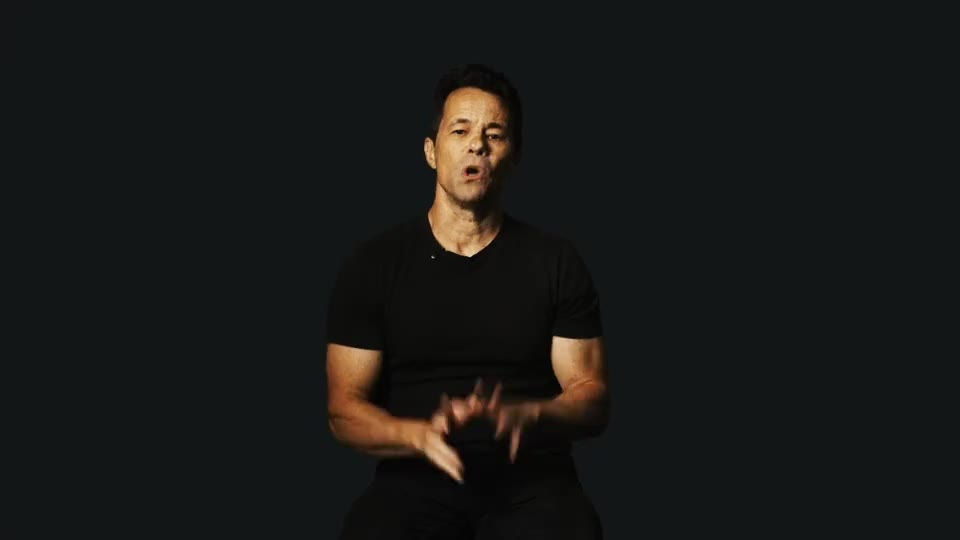
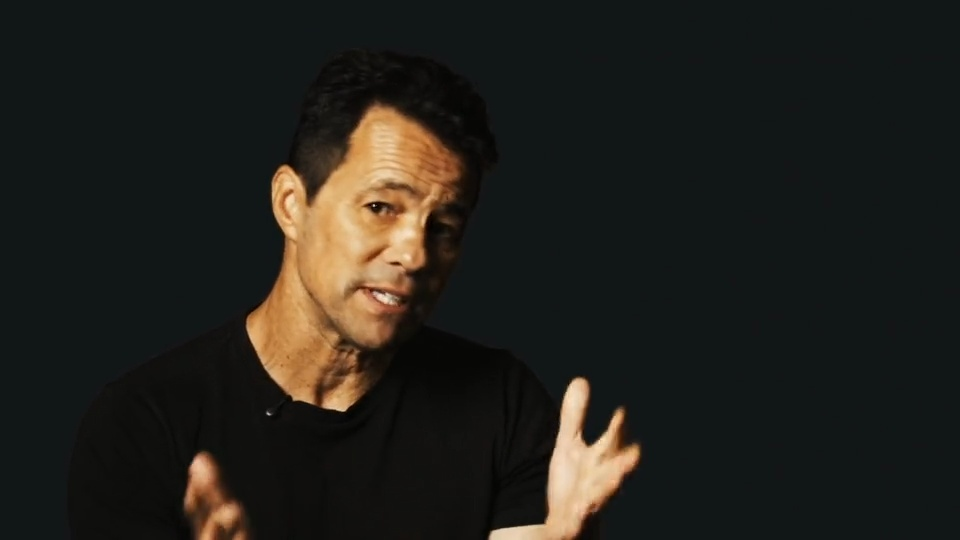
Refine About story disclosures and Media video stills

Changed region(s): [[0.25, 0.1481, 0.6875, 1.0], [0.1875, 0.8296, 0.2812, 1.0]]

diff --git a/studio/scripts/update-about-story.ts b/studio/scripts/update-about-story.ts
@@ -1,0 +1,62 @@
+import {writeFile} from 'node:fs/promises'
+import {tmpdir} from 'node:os'
+import {join} from 'node:path'
+import {isDeepStrictEqual} from 'node:util'
+import {getCliClient} from 'sanity/cli'
+import storyBody from '../../docs/about-story-20261118.json'
+
+// Dry run: sanity exec scripts/update-about-story.ts --with-user-token
+// Apply only this approved field: append -- --apply. Existing drafts are never published.
+const client = getCliClient({apiVersion: '2026-09-11'}).withConfig({useCdn: false})
+
+
+async function run() {
+  const documents = await client.fetch<Array<{
+    _id: string; _rev: string; storyBody?: unknown; [key: string]: unknown
+  }>>('*[_type == "about" && !(_id in path("versions.**"))]', {}, {perspective: 'raw'})
+  const published = documents.filter((document) => !document._id.startsWith('drafts.'))
+  if (published.length !== 1) throw new Error('Expected exactly one published About.')
+  const about = published[0]
+  const draft = documents.find((document) => document._id === `drafts.${about._id}`)
+  if (draft && !isDeepStrictEqual(draft.storyBody, about.storyBody) &&
+      !isDeepStrictEqual(draft.storyBody, storyBody)) {
+    throw new Error('About has independent story draft edits. No content was changed.')
+  }
+  const pending = [about, ...(draft ? [draft] : [])].filter(
+    (document) => !isDeepStrictEqual(document.storyBody, storyBody),
+  )
+  console.log(JSON.stringify({
+    blocks: storyBody.length,
+    pending: pending.map((document) => ({id: document._id, revision: document._rev})),
+    draftWillBePublished: false,
+  }))
+  if (!process.argv.includes('--apply') || !pending.length) return
+
+  const backup = join(tmpdir(), `troy-storyBody-${Date.now()}.json`)
+  await writeFile(backup, JSON.stringify(documents, null, 2), {mode: 0o600, flag: 'wx'})
+  console.log(`Private backup: ${backup}`)
+  let transaction = client.transaction()
+  for (const document of pending) {
+    transaction = transaction.patch(document._id, (patch) => patch
+      .ifRevisionId(document._rev).set({storyBody}))
+  }
+  await transaction.commit()
+  for (const document of pending) {
+    const saved = await client.getDocument(document._id)
+    if (!isDeepStrictEqual(saved?.storyBody, storyBody)) {
+      throw new Error(`Story verification failed: ${document._id}`)
+    }
+    for (const [field, value] of Object.entries(document)) {
+      if (['storyBody', '_rev', '_updatedAt'].includes(field)) continue
+      if (!isDeepStrictEqual(saved?.[field], value)) {
+        throw new Error(`Unexpected field change: ${document._id}.${field}`)
+      }
+    }
+  }
+  console.log('Verified story-only changes; other content and draft status preserved.')
+}
+
+run().catch((error: Error) => {
+  console.error(error.message)
+  process.exitCode = 1
+})

diff --git a/components/backstory.tsx b/components/backstory.tsx
@@ -1,0 +1,30 @@
+import { PortableText, type PortableTextBlock } from "@portabletext/react";
+
+// These editorial subheads delimit independently expandable parts of the CMS copy.
+const sectionHeadings = new Set(["LESSONS IN PAIN", "THE CRITICAL QUESTION"]);
+
+export function Backstory({ blocks }: { blocks: PortableTextBlock[] }) {
+  const introduction: PortableTextBlock[] = [];
+  const sections: { key: string; title: string; blocks: PortableTextBlock[] }[] = [];
+  for (const block of blocks) {
+    const text = block.children?.map((child) => child.text || "").join("").trim();
+    if (sectionHeadings.has(text.toUpperCase())) {
+      sections.push({ key: block._key || `section-${sections.length}`, title: text, blocks: [] });
+    } else if (sections.length) {
+      sections[sections.length - 1].blocks.push(block);
+    } else {
+      introduction.push(block);
+    }
+  }
+  return (
+    <div className="portable-copy backstory-copy">
+      <PortableText value={introduction} />
+      {sections.map((section) => (
+        <details className="backstory-section" key={section.key}>
+          <summary><h3>{section.title}</h3><span aria-hidden="true" className="backstory-section__indicator" /></summary>
+          <div className="backstory-section__body"><PortableText value={section.blocks} /></div>
+        </details>
+      ))}
+    </div>
+  );
+}

diff --git a/app/globals.css b/app/globals.css
@@ -2196,3 +2196,37 @@ a.sample-action:focus-visible {
 }
 
 .contact-form .contact-verification { grid-column: 1 / -1; min-width: 0; }
+
+/* Preserve the complete supplied portrait instead of cropping the head. */
+.biography-portrait .portrait-image {
+  height: auto;
+  object-fit: contain;
+}
+
+.backstory-section {
+  border-top: 1px solid currentColor;
+  margin-top: 1.5rem;
+}
+.backstory-section summary {
+  display: flex;
+  align-items: center;
+  justify-content: space-between;
+  gap: 1rem;
+  min-height: 3.5rem;
+  padding: 1rem 0;
+  cursor: pointer;
+  list-style: none;
+}
+.backstory-section summary::-webkit-details-marker { display: none; }
+.backstory-section summary h3 {
+  margin: 0;
+  font-size: clamp(1.8rem, 2.56vw, 3rem);
+}
+.backstory-section summary:focus-visible {
+  outline: 3px solid currentColor;
+  outline-offset: 4px;
+}
+.backstory-section__indicator::before { content: "+"; }
+.backstory-section[open] .backstory-section__indicator::before { content: "−"; }
+.backstory-section__indicator { flex: 0 0 auto; font-size: 1.75rem; }
+.backstory-section__body { padding-bottom: 0.5rem; }

diff --git a/app/about/page.tsx b/app/about/page.tsx
@@ -2,6 +2,7 @@ import type { Metadata } from "next";
 import Image from "next/image";
 import { PortableText } from "@portabletext/react";
 
+import { Backstory } from "@/components/backstory";
 import { SubpageShell } from "@/components/subpage-shell";
 import { getAboutContent } from "@/lib/sanity/about";
 
@@ -79,9 +80,7 @@ export default async function AboutPage() {
           </h2>
           <div className="copy-columns">
             {about?.storyBody?.length ? (
-              <div className="portable-copy">
-                <PortableText value={about.storyBody} />
-              </div>
+              <Backstory blocks={about.storyBody} />
             ) : (
               <p>
                 This area can hold the longer-form story: formative moments,

diff --git a/docs/CLIENT_REVIEW_2026-11-18.md b/docs/CLIENT_REVIEW_2026-11-18.md
@@ -1,0 +1,28 @@
+# November 18 client review and November 19 approved release
+
+User approved Media still replacements, an uncropped About portrait, and the supplied replacement backstory with two independently expandable sections, closed by default. Correct “So one he stopped” to “So one day he stopped” and add the missing period after “empowering”. **Do not push to main or publish CMS content until the user gives release approval.**
+
+## Implementation
+
+- Media-only posters extracted at approximately 44.042s from full clip 6 (near requested frame 1055; nearby frame 1057 selected after visual and face-detail comparison) and 19.6s from full clip 9; original full video, dimensions, native controls/audio, CMS override precedence and hero posters/previews unchanged.
+- About portrait uses its intrinsic aspect ratio, retaining the full supplied image and credit.
+- Native details/summary sections are delimited by the exact CMS subheading paragraphs LESSONS IN PAIN and THE CRITICAL QUESTION. They support independent opening, keyboard/touch and visible focus; no script or animation is needed. Existing story content without those headings remains fully visible.
+- Approved replacement Portable Text is staged in `docs/about-story-20261118.json`. `TROY_STORY_REVIEW=true` applies it **only in Next development**; normal production continues reading the published CMS field. No CMS write or draft publish has occurred.
+
+## Local preview
+
+Use existing read-only CMS access and set `TROY_STORY_REVIEW=true HOMEPAGE_VIDEO_POC=true` when starting the local Next development server. Current review is port 3020. Credentials must never be printed or committed. Task-local launcher/check scripts and screenshot evidence are ignored under `tmp/client-review-20261118` and `outputs/client-review-20261118`.
+
+## Release dependency
+
+After explicit approval, release scoped application changes from a clean origin/main checkout, never this local main wholesale. Coordinate the code release with a backed-up, revision-guarded, field-only update of About `storyBody` using the staged JSON. Inspect any existing About draft first; preserve all unrelated fields and do not publish the draft to apply this change. Reconcile only the approved story field in draft/published versions as appropriate. Remove the temporary development-only story override after the approved CMS update. No schema/Studio deployment is required.
+
+## Verification
+
+Passed targeted ESLint, website TypeScript the Next.js webpack static production build, GitHub Pages repository-prefixed production build, and Worker build/package/type checks. Chrome checked all six routes at 1440, 1280, 1024, 901, 768, 390 and 320px: 42 HTTP200/no-overflow checks; no page errors. Both sections were closed after navigation, opened independently, worked with Enter/Space and emulated touch, and retained corrected copy. Full portrait aspect ratio passed at every width. Reduced-motion opening and full-video pause-on-switch passed. Desktop and phone screenshots were visually inspected. Pre-existing hero LCP loading advisories remain outside this pass. Duplicate generated `.next/types/* 2.ts` files prevented the initial typecheck; those files were preserved as ignored `.backup` files under the task-local tmp folder, then the check passed. Browser phone emulation is not physical iPhone/WebKit acceptance. Existing contact replay limitation and launch gates remain unchanged.
+
+November 18 follow-up: user supplied the preferred close-up around 44 seconds/frame 1055. Compared nearby full-video frames; the 44.042s still retained that expression with the strongest measured facial edge detail among the sampled 1053–1059 neighborhood. Replaced only the local clip-6 Media poster. No push or CMS write.
+
+## November 19 release approval
+
+The user approved pushing the reviewed pass to main. The story-only CMS transaction was applied with a private backup and revision guard, then verified byte-for-byte; all other document fields were unchanged. There was no About draft. The temporary local story override was removed; the normal published CMS read now supplies the approved story. The earlier hold and local-only instructions above are historical and superseded by this approval. Scoped release uses the isolated origin/main checkout, preserving original local history and unrelated files. Deployment/browser results will be recorded after verification.
